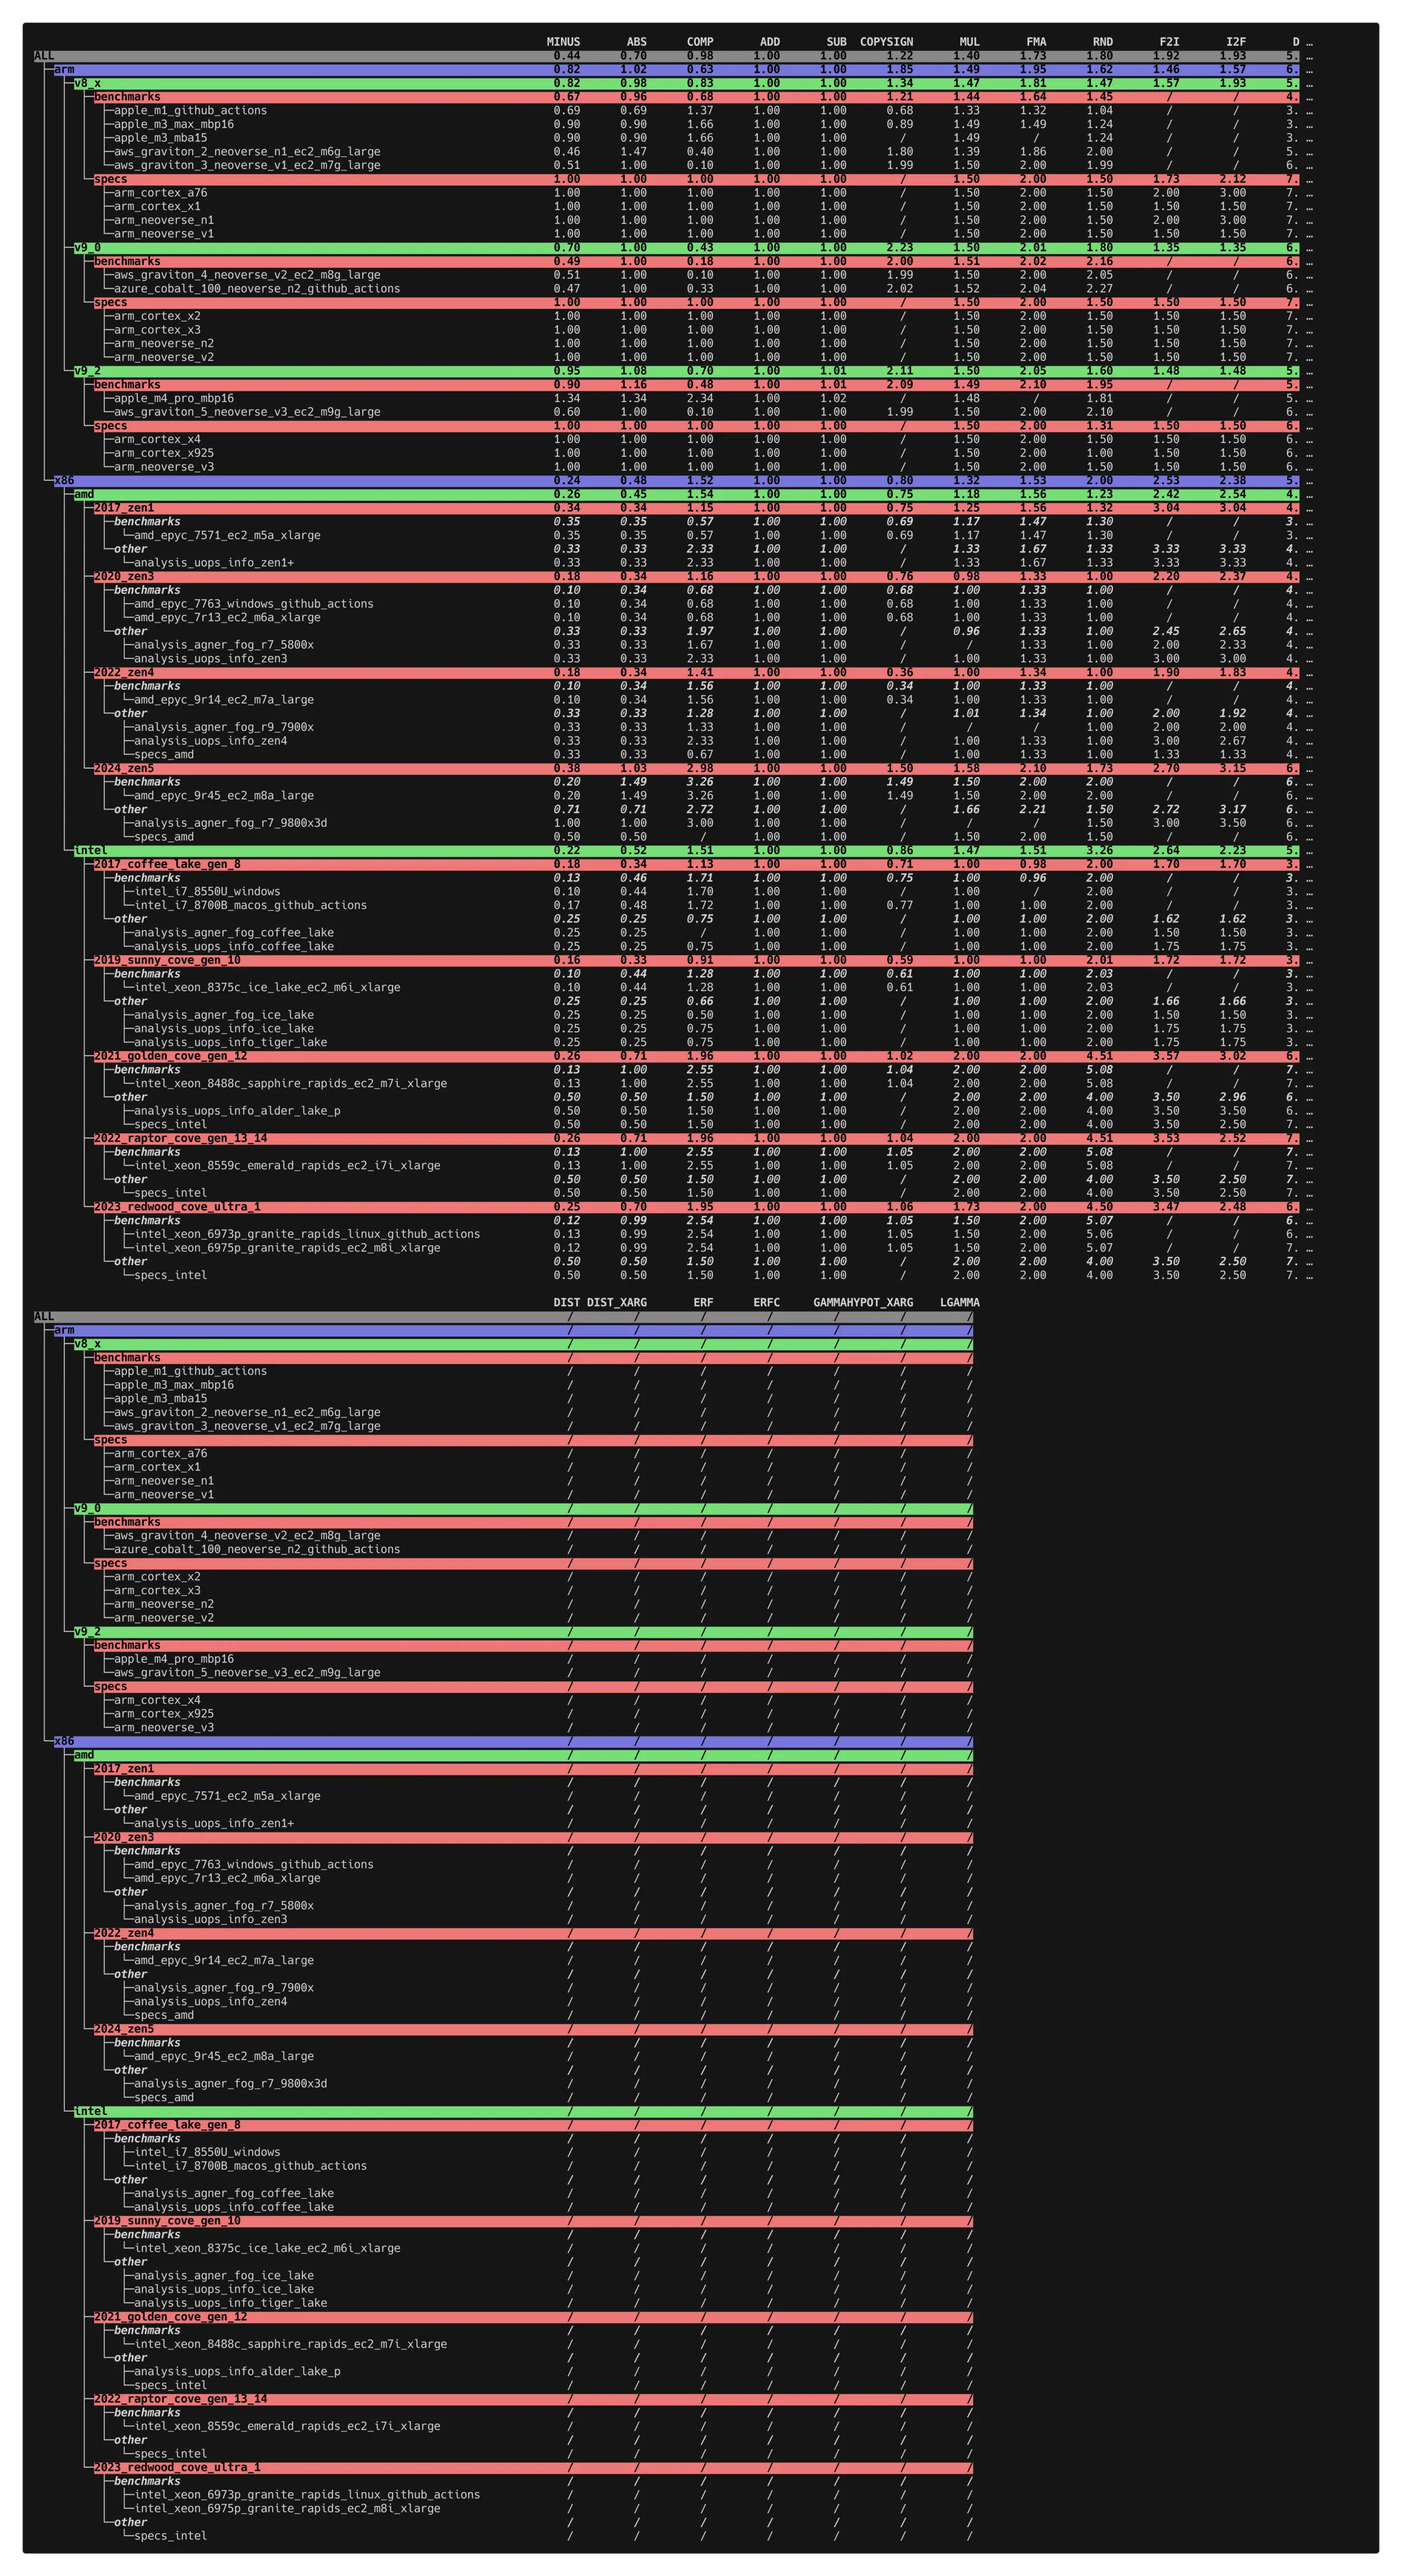
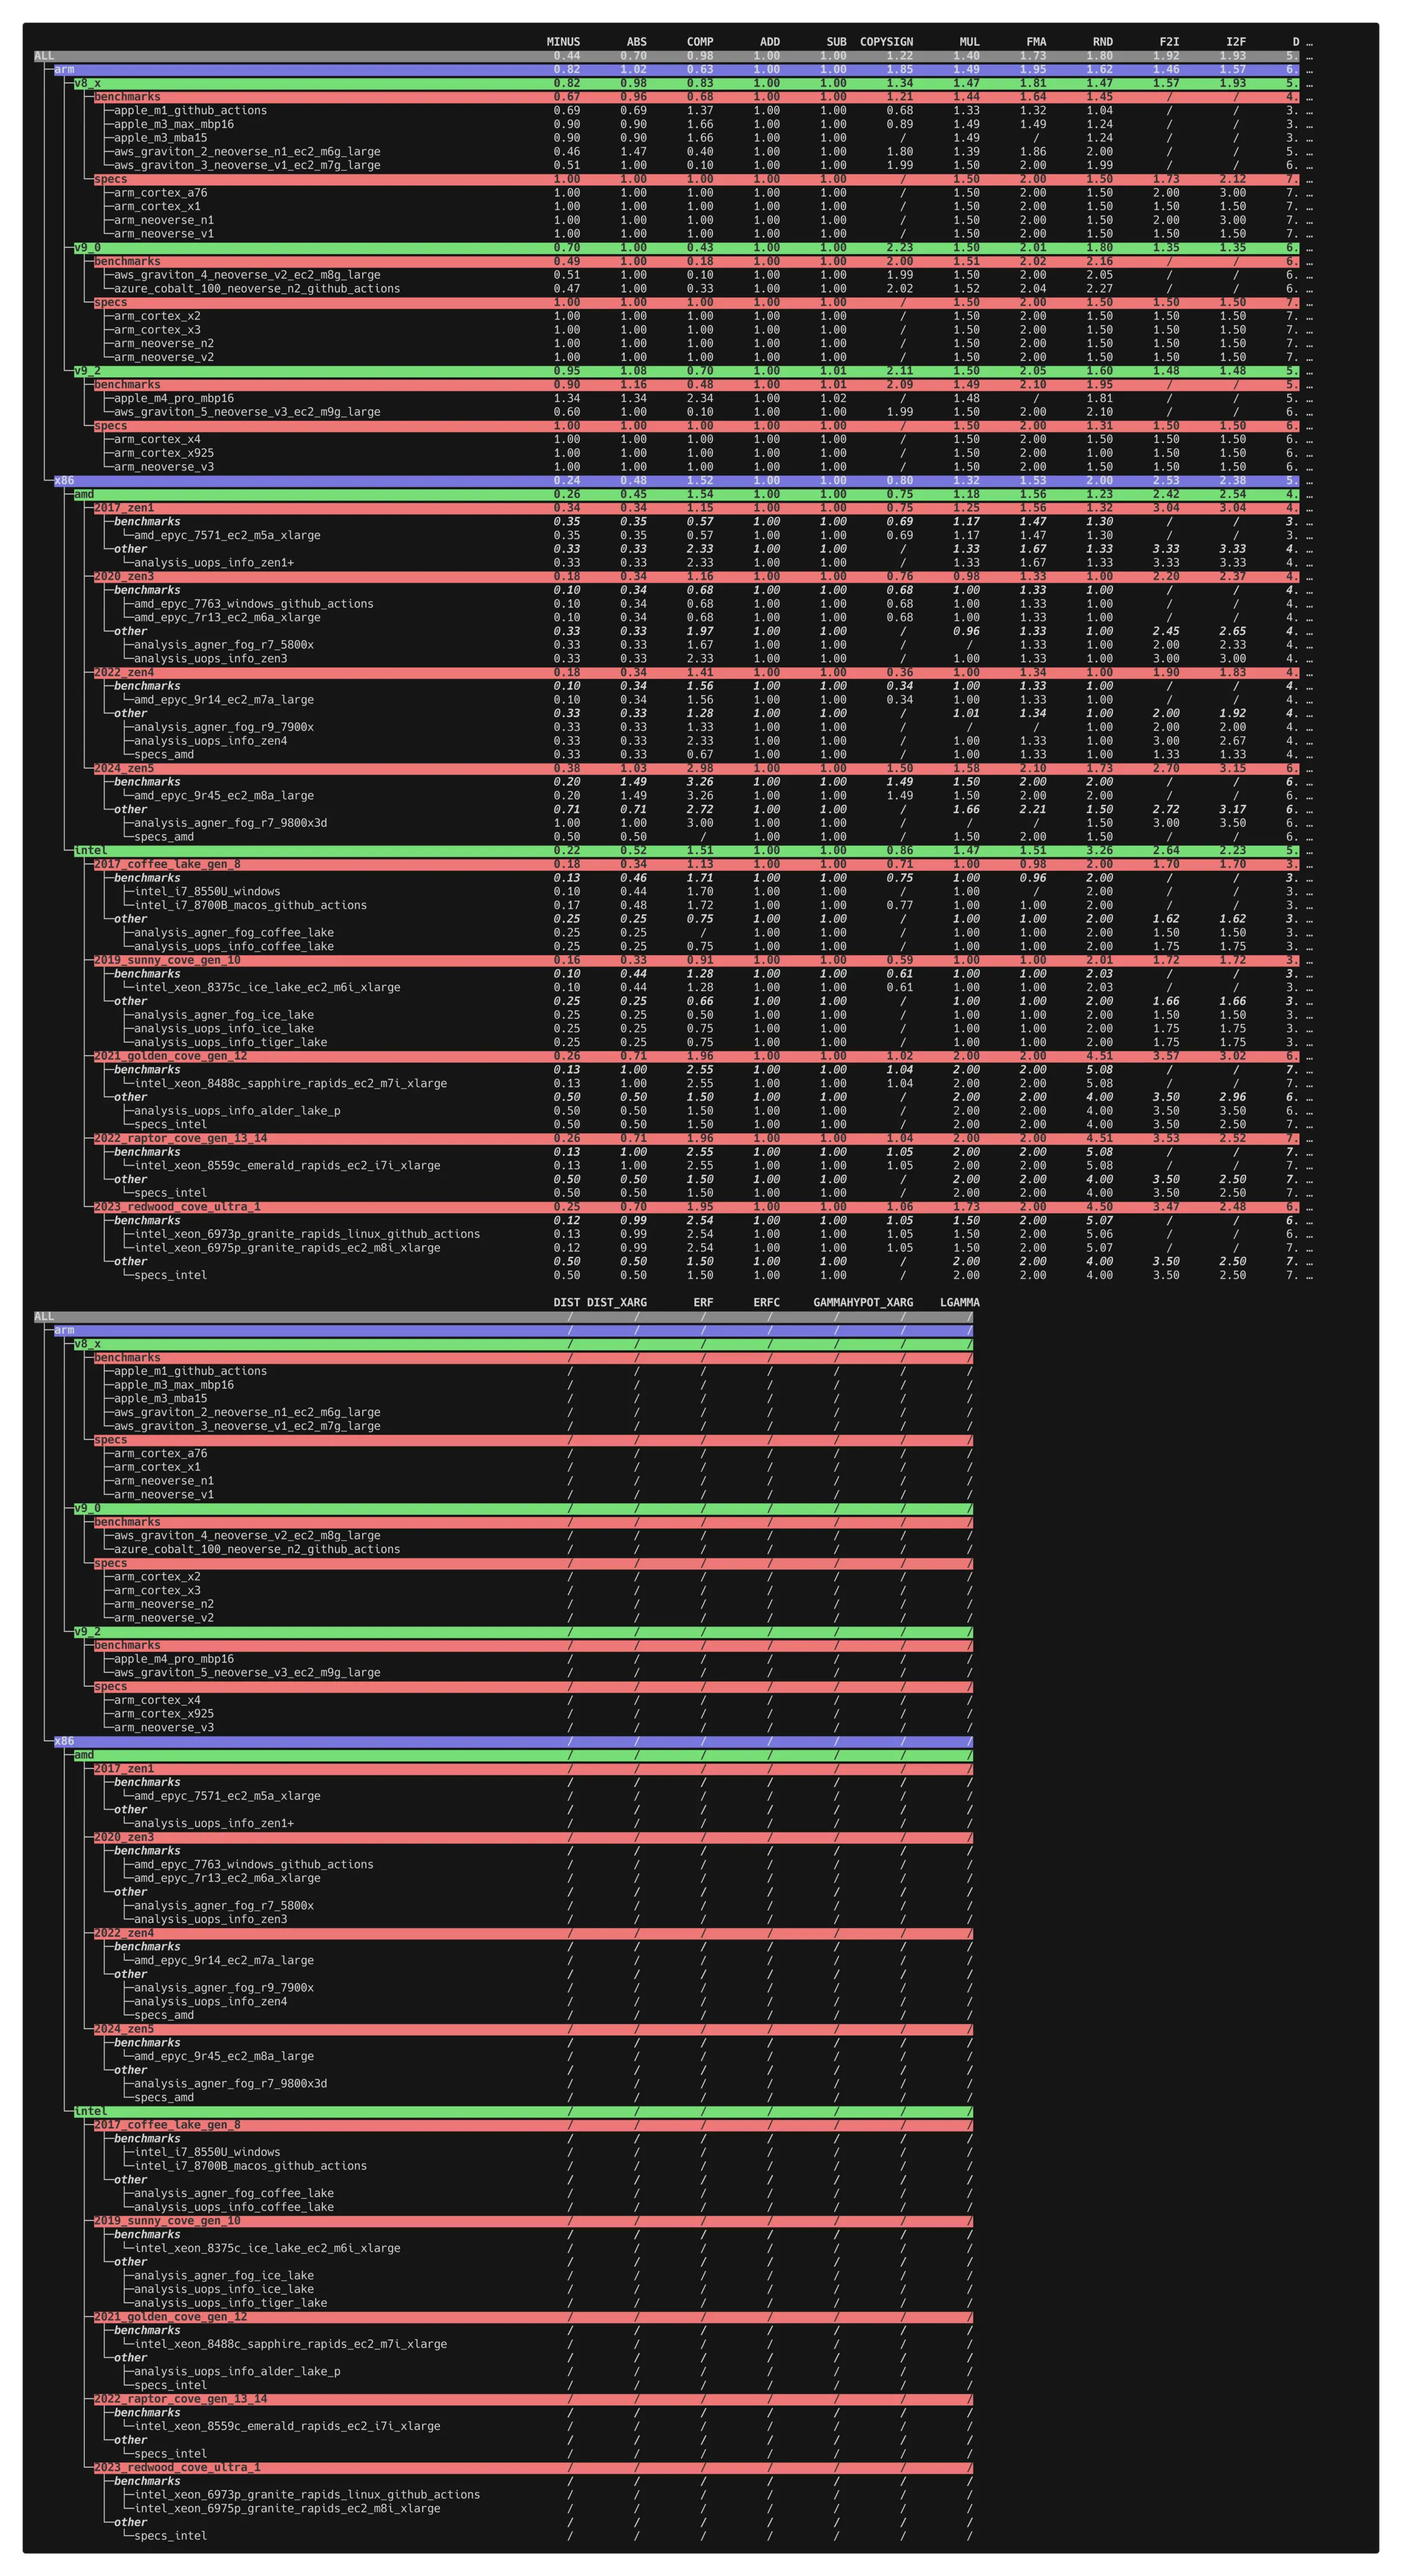
fix: soften the show-data band foreground to the two bars that need it
Only the green and salmon bands leave the terminal default foreground hard to read; the grey and blue ones are fine as they are, so they keep it. The two that do pin a dark gray rather than black, which carries the contrast without reading as harshly.

diff --git a/src/counted_float/_core/counting/_builtin_data.py b/src/counted_float/_core/counting/_builtin_data.py
@@ -324,14 +324,16 @@ class FlopWeightsTreeView:
                     # no special styling
                     console.print(line, highlight=False)
                 else:
-                    # highlight as bold and with a colored background; the foreground is pinned
-                    # to black rather than left to the terminal default, which on dark themes is
-                    # a light gray that is barely legible on these bright bars
+                    # highlight as bold and with a colored background.  The two bright bars pin a
+                    # dark gray foreground instead of leaving it to the terminal default, which on
+                    # dark themes is a light gray they leave barely legible (on the green one it
+                    # all but disappears).  The darker bars keep the default, which reads fine on
+                    # them either way.
                     style_tag = [
-                        "[bold black on #888888]",  # indent 0
-                        "[bold black on #7777dd]",  # indent 1
-                        "[bold black on #77dd77]",  # indent 2
-                        "[bold black on #ee7777]",  # indent 3
+                        "[bold on #888888]",  # indent 0
+                        "[bold on #7777dd]",  # indent 1
+                        "[bold #333333 on #77dd77]",  # indent 2
+                        "[bold #333333 on #ee7777]",  # indent 3
                         "[bold italic]",  # indent 4+
                     ][min(indent, 4)]
                     line = line[: 3 * indent] + style_tag + line[3 * indent :] + "[/]"
